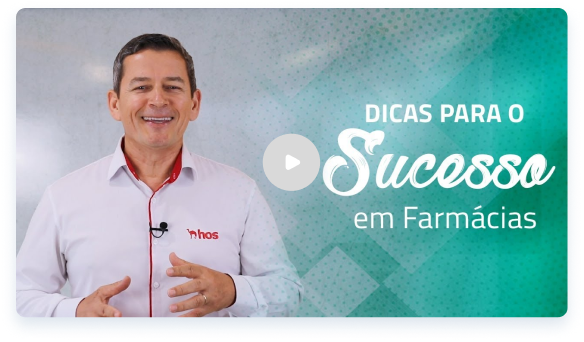
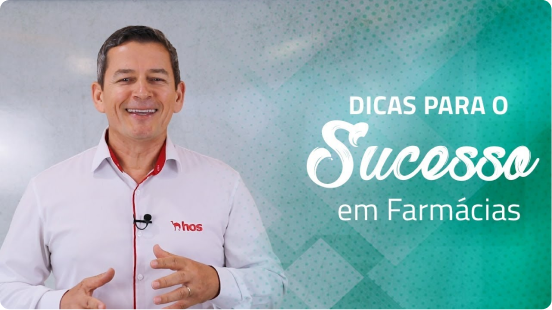
Alterações feitas

diff --git a/hos/src/components/videos.tsx b/hos/src/components/videos.tsx
@@ -2,9 +2,9 @@ import Image from 'next/image'
 import indicadores from '../../public/indicadores.png'
 import dicas from '../../public/dicas.png'
 import prosperar from '../../public/prosperar.png'
-import frente from '../../public/frente.png'
+import frente from '../../public/frente.jpeg'
 import Link from 'next/link'
-
+import play from '../../public/play.svg'
 interface VideosProps {
 
 }
@@ -17,30 +17,42 @@ export function Videos(props : VideosProps){
             <p className='text-center text-[1rem] text-grafite w-[15rem] py-[1.5rem] font-bold mx-auto tablet:w-[51rem] tablet:text-[2rem] tablet:pt-[8rem] tablet:pb-[5rem]'>Explore os recursos criados pelos consultores da HOS</p>
 
             <div className='tablet:grid tablet:grid-cols-2 tablet:gap-y-10 tablet:pb-[6rem]'>
-                <div className='mx-auto'>
+                <div className='mx-auto relative'>
                     <Link href='https://www.youtube.com/watch?v=_l5KEDfDiDc&ab_channel=HosSistemas' target='_blank'>
-                        <Image src={indicadores} alt='' className='mx-auto tablet:w-[31rem] hover:w-[32rem] transition-all ease-in-out duration-300' />
+                        <Image src={indicadores} alt='' className='  w-auto h-[12rem] mx-auto tablet:h-[18rem] transition-all ease-in-out duration-300' />
+                        <div className=' absolute bg-cinza top-[4rem] left-[9rem] w-[3.59rem] h-[3.59rem]  rounded-full tablet:top-[7rem] tablet:left-[14rem]  hover:bg-vermelho transition-all ease-in-out duration-500'>
+                            <Image src={play} alt='' className='flex justify-center items-center mx-auto mt-4'/>
+                        </div>         
                     </Link>
-                    <p className='text-center text-[0.87rem] font-semibold mx-auto tablet:text-[1.5rem] tablet:w-[24rem]'>Indicadores na Gestão de Drogarias</p>
+                    <p className='text-center text-[0.87rem] font-semibold mx-auto tablet:text-[1.5rem] tablet:w-[24rem] tablet:pt-4'>Indicadores na Gestão de Drogarias</p>
                 </div>
 
-                <div className='mx-auto py-[2rem] tablet:py-0'>
+                <div className='mx-auto py-[2rem] relative w-4/4 tablet:py-0'>
                     <Link href='https://www.youtube.com/watch?v=lm1aYxNGV3E&ab_channel=HosSistemas' target='_blank'>
-                        <Image src={dicas} alt='' className='mx-auto tablet:w-[31rem] hover:w-[32rem] transition-all ease-in-out duration-300' />
+                    <Image src={dicas} alt='' className='  w-auto h-[12rem] mx-auto tablet:h-[18rem] transition-all ease-in-out duration-300' />
+                        <div className=' absolute bg-cinza top-[6rem] left-[9rem] w-[3.59rem] h-[3.59rem]  rounded-full tablet:top-[7rem] tablet:left-[14rem]  hover:bg-vermelho transition-all ease-in-out duration-500'>
+                            <Image src={play} alt='' className='flex justify-center items-center mx-auto mt-4'/>
+                        </div>  
                     </Link>
-                    <p className='text-center text-[0.87rem] font-semibold w-[14rem] mx-auto tablet:text-[1.5rem] tablet:w-[24rem]'>Dicas de Gestão Farmacêutica para o Sucesso em Farmácias</p>
+                    <p className='text-center text-[0.87rem] font-semibold w-[14rem] mx-auto tablet:text-[1.5rem] tablet:w-[24rem] tablet:pt-4'>Dicas de Gestão Farmacêutica para o Sucesso em Farmácias</p>
                 </div>
 
-                <div className='mx-auto'>
+                <div className='mx-auto relative w-4/4'>
                     <Link href='https://www.youtube.com/watch?v=gyJnJdlnHQI&ab_channel=HosSistemas' target='_blank'>
-                        <Image src={prosperar} alt='' className='mx-auto tablet:w-[31rem] hover:w-[32rem] transition-all ease-in-out duration-300' />
+                    <Image src={prosperar} alt='' className=' rounded-lg w-auto h-[12rem] mx-auto tablet:h-[18rem] transition-all ease-in-out duration-300' />
+                        <div className=' absolute bg-cinza top-[4rem] left-[9rem] w-[3.59rem] h-[3.59rem]  rounded-full tablet:top-[7rem] tablet:left-[14rem]  hover:bg-vermelho transition-all ease-in-out duration-500'>
+                            <Image src={play} alt='' className='flex justify-center items-center mx-auto mt-4'/>
+                        </div>  
                     </Link>
-                    <p className='text-center text-[0.87rem] font-semibold w-[14rem] mx-auto tablet:text-[1.5rem] tablet:w-[24rem]'>Como prosperar no Varejo Farmacêutico</p>
+                    <p className='text-center text-[0.87rem] font-semibold w-[14rem] mx-auto tablet:text-[1.5rem] tablet:w-[24rem] tablet:pt-4'>Como prosperar no Varejo Farmacêutico</p>
                 </div>
 
-                <div className='mx-auto py-[2rem] tablet:py-0 tablet:mt-[-2.3rem]'>
+                <div className='mx-auto py-[2rem] relative w-4/4 tablet:py-0 tablet:mt-[0.5rem]'>
                 <Link href='https://www.youtube.com/watch?v=RGg3OHoguWo&t=2s' target='_blank'>
-                    <Image src={frente} alt='' className='mx-auto tablet:w-[35rem] hover:w-[36rem] transition-all ease-in-out duration-300' />
+                <Image src={frente} alt='' className=' rounded-lg w-auto h-[12rem] mx-auto tablet:h-[18rem] transition-all ease-in-out duration-300' />
+                        <div className=' absolute bg-cinza top-[4rem] left-[9rem] w-[3.59rem] h-[3.59rem]  rounded-full tablet:top-[7rem] tablet:left-[14rem]  hover:bg-vermelho transition-all ease-in-out duration-500'>
+                            <Image src={play} alt='' className='flex justify-center items-center mx-auto mt-4'/>
+                        </div> 
                 </Link>
                     <p className='text-center text-[0.87rem] font-semibold w-[14rem] mx-auto tablet:text-[1.5rem] tablet:w-[24rem]'>HOS Farma: Sistema de Gestão para Farmácias e Drogarias</p>
                 </div>

diff --git a/hos/src/components/quemsomostres.tsx b/hos/src/components/quemsomostres.tsx
@@ -11,12 +11,12 @@ export function Tres(props: TresProps){
     
     return(
         <div className="bg-fundo -mt-[5.5rem] pb-[5rem]">
-            <div className="pt-[3rem] tablet:mx-auto tablet:max-w-[1300px] tablet:pt-[8rem] tablet:justify-center tablet:items-center">
-                <div className="pt-[3rem] tablet:mx-auto tablet:flex tablet:py-[6.5rem] tablet:gap-x-2">
+            <div className="pt-[3rem] tablet:mx-auto tablet:max-w-[1200px] tablet:pt-[8rem] tablet:justify-center tablet:items-center">
+                <div className="pt-[3rem] tablet:mx-auto tablet:flex tablet:py-[6.5rem] tablet:gap-x-6">
 
                        
-                   <div className="bg-white w-[16.257rem] h-[17.8rem] rounded-4xl drop-shadow-lg mx-auto tablet:w-[25rem] tablet:h-[26rem]  group hover:bg-gradient-to-b to-magenta from-laranja transition-all ease-in duration-1000">
-                        <div className="absolute bg-white w-[4.8rem] h-[4.7rem] rounded-3xl flex justify-center mx-auto drop-shadow-xl -mt-6 left-[6rem] tablet:drop-shadow-tres tablet:w-[7.2rem] tablet:h-[7.1rem] tablet:left-[9rem] tablet:-mt-[5.5rem] tablet:rounded-4xl">
+                   <div className="bg-white w-[16.257rem] h-[17.8rem] rounded-4xl drop-shadow-lg mx-auto tablet:w-[24rem] tablet:h-[24rem]  group hover:bg-gradient-to-b to-magenta from-laranja transition-all ease-in duration-1000">
+                        <div className="absolute bg-white w-[4.8rem] h-[4.7rem] rounded-3xl flex justify-center mx-auto drop-shadow-xl -mt-6 left-[6rem] tablet:drop-shadow-tres tablet:w-[7.2rem] tablet:h-[7.1rem] tablet:left-[8rem] tablet:-mt-[5.5rem] tablet:rounded-4xl">
                             <Image src={missao} alt='' className="tablet:w-[5rem] tablet:h-auto"/>   
                         </div>
                         <h2 className="text-[1.25rem] pt-[5.5rem] text-grafite font-bold leading-tight text-center tablet:text-center tablet:text-[1.875rem]  tablet:max-w-[15rem] tablet:mx-auto group-hover:text-white">Missão</h2>  
@@ -24,16 +24,16 @@ export function Tres(props: TresProps){
 as necessidades dos clientes, colaboradores, parceiros e sócios.</p>
                     </div>
 
-                    <div className="bg-white w-[16.257rem] h-[17.8rem] rounded-4xl drop-shadow-lg mx-auto  mt-[3rem] tablet:w-[25rem] tablet:h-[26rem] tablet:mt-0  group hover:bg-gradient-to-b to-magenta from-laranja transition-all ease-in duration-1000">
-                        <div className="absolute bg-white w-[4.8rem] h-[4.7rem] rounded-3xl flex justify-center mx-auto drop-shadow-xl -mt-6 left-[6rem] tablet:w-[7.2rem] tablet:drop-shadow-tres tablet:h-[7.1rem] tablet:left-[9rem] tablet:-mt-[5.5rem] tablet:rounded-4xl">
+                    <div className="bg-white w-[16.257rem] h-[17.8rem] rounded-4xl drop-shadow-lg mx-auto  mt-[3rem] tablet:w-[25rem] tablet:h-[24rem] tablet:mt-0  group hover:bg-gradient-to-b to-magenta from-laranja transition-all ease-in duration-1000">
+                        <div className="absolute bg-white w-[4.8rem] h-[4.7rem] rounded-3xl flex justify-center mx-auto drop-shadow-xl -mt-6 left-[6rem] tablet:w-[7.2rem] tablet:drop-shadow-tres tablet:h-[7.1rem] tablet:left-[8.8rem] tablet:-mt-[5.5rem] tablet:rounded-4xl">
                             <Image src={visao} alt='' className="tablet:w-[5.5rem] tablet:h-auto"/>   
                         </div>
                         <h2 className="text-[1.25rem] pt-[5.5rem] w-[8rem] mx-auto text-grafite font-bold leading-tight text-center tablet:text-center tablet:text-[1.875rem]  tablet:w-[13rem] tablet:mx-auto group-hover:text-white">Visão</h2>  
                         <p className="text-[0.76rem] pt-[2.4rem] text-grafite mx-auto  w-[13.9rem] text-center tablet:text-center tablet:text-[20px]  tablet:w-[20rem] group-hover:text-white"> Tornar-se uma empresa referência em qualidade do produto e excelência, dentro do mercado nacional, em soluções para o ramo do varejo farmacêutico.</p>
                     </div> 
 
-                    <div className="bg-white w-[16.257rem] h-[17.8rem] rounded-4xl drop-shadow-lg mx-auto mt-[3rem] tablet:w-[25rem] tablet:h-[26rem] tablet:mt-0 group hover:bg-gradient-to-b to-magenta from-laranja transition-all ease-in duration-1000">
-                            <div className="absolute bg-white w-[4.8rem] h-[4.7rem] rounded-3xl flex justify-center mx-auto drop-shadow-xl -mt-6 left-[6rem] tablet:w-[7.2rem] tablet:h-[7.1rem] tablet:drop-shadow-tres tablet:left-[9rem] tablet:-mt-[5.5rem] tablet:rounded-4xl ">
+                    <div className="bg-white w-[16.257rem] h-[17.8rem] rounded-4xl drop-shadow-lg mx-auto mt-[3rem] tablet:w-[25rem] tablet:h-[24rem] tablet:mt-0 group hover:bg-gradient-to-b to-magenta from-laranja transition-all ease-in duration-1000">
+                            <div className="absolute bg-white w-[4.8rem] h-[4.7rem] rounded-3xl flex justify-center mx-auto drop-shadow-xl -mt-6 left-[6rem] tablet:w-[7.2rem] tablet:h-[7.1rem] tablet:drop-shadow-tres tablet:left-[8.7rem] tablet:-mt-[5.5rem] tablet:rounded-4xl ">
                                 <Image src={valores} alt="" className="tablet:w-[5rem] tablet:h-auto" />
                             </div>
                             <h2 className="text-[1.25rem] pt-[5.5rem] text-grafite font-bold leading-tight text-center tablet:text-center tablet:text-[1.875rem] tablet:max-w-[31rem] group-hover:text-white">

diff --git a/hos/src/components/carrosselsolucoes.tsx b/hos/src/components/carrosselsolucoes.tsx
@@ -58,25 +58,25 @@ export function Render(props: RenderProps) {
     return( 
     
     <div className="relative bg-fundo">
-        <div className='text-[1.25rem] w-[15rem] text-center pt-[5rem] font-extrabold text-grafite leading-tight  flex mx-auto pb-[2rem] tablet:text-center tablet:w-[42.4rem] tablet:text-[2rem]'>
+        <div className='text-[1.25rem] w-[15rem] text-center pt-[5rem] font-extrabold text-grafite leading-tight  flex mx-auto pb-[2rem] tablet:text-center tablet:w-[42.4rem] tablet:text-[2rem] tablet:pb-[4rem]'>
                 <h2 className='mx-auto'>Soluções para sua drogaria render mais </h2>
             </div>
       <div className="grid grid-cols-1 h-[55rem] tablet:flex  tablet:w-[1090px] tablet:mx-auto tablet:justify-center tablet:h-auto tablet:pb-[3rem]">
         <div className=" tablet:flex tablet:justify-center ">
-            <div  className=' w-[16rem] h-[15rem] mb-3 mx-auto justify-center bg-white  drop-shadow-lg rounded-xl tablet:w-[23.3rem] tablet:h-[25rem] tablet:mx-6'>
-              <Image src={simultanes} alt='' className='w-[3.8rem] h-auto flex mx-auto pt-[2rem]  tablet:w-[5.8rem] tablet:pt-[4rem] tablet:pb-[2rem]'/>
-              <h2 className='text-center text-[1rem] mt-[1.9rem] text-grafite font-bold tablet:text-[1.25rem] tablet:px-[1.5rem]  tablet:pb-[0.7rem]'>Vendas Simultâneas</h2>
+            <div  className=' w-[16rem] h-[15rem] mb-3 mx-auto justify-center bg-white  drop-shadow-lg rounded-xl tablet:w-[23.3rem] tablet:h-[23rem] tablet:mx-6'>
+              <Image src={simultanes} alt='' className='w-[3.8rem] h-auto flex mx-auto pt-[2rem]  tablet:w-[5.8rem] tablet:pt-[3.5rem] tablet:pb-[2rem]'/>
+              <h2 className='text-center text-[1rem] mt-[1.9rem] text-grafite font-bold tablet:text-[1.3] tablet:px-[1.5rem]  tablet:pb-[0.7rem]'>Vendas Simultâneas</h2>
               <p className='text-center text-[0.8rem] mt-[0.9rem] text-grafite tablet:text-[1rem] tablet:w-[18rem] tablet:pb-[4.9rem] tablet:flex tablet:mx-auto'>Flexibilidade de usar múltiplas telas de vendas para consultar preços e atender clientes de forma simultânea.</p>
             </div>
 
-            <div  className=' w-[16rem] h-[15rem] mb-3 mx-auto justify-center bg-white  drop-shadow-lg rounded-xl tablet:w-[23.3rem] tablet:h-[25rem]'>
-              <Image src={pbm} alt='' className='w-[2rem] h-auto flex mx-auto pt-[2rem]  tablet:w-[3.8rem] tablet:pt-[4rem] tablet:pb-[1.2rem]'/>
+            <div  className=' w-[16rem] h-[15rem] mb-3 mx-auto justify-center bg-white  drop-shadow-lg rounded-xl tablet:w-[23.3rem] tablet:h-[23rem]'>
+              <Image src={pbm} alt='' className='w-[2rem] h-auto flex mx-auto pt-[2rem]  tablet:w-[3.8rem] tablet:pt-[3rem] tablet:pb-[1.2rem]'/>
               <h2 className='text-center text-[1rem] mt-[1.9rem] text-grafite font-bold tablet:text-[1.25rem] tablet:px-[1.5rem] tablet:pb-[0.8rem]'>PBMS</h2>
               <p className='text-center text-[0.8rem] mt-[0.9rem] text-grafite tablet:text-[1rem] tablet:w-[18rem] tablet:flex tablet:mx-auto'>Proporcionamos a integração com os principais Planos de Benefícios de Medicamentos (PBM) do mercado.</p>
             </div>
 
-            <div  className=' w-[16rem] h-[15rem] mx-auto justify-center bg-white  drop-shadow-lg rounded-xl tablet:w-[23.3rem] tablet:h-[25rem] tablet:mx-6'>
-              <Image src={tef} alt='' className='w-[2.2rem] h-auto flex mx-auto pt-[2rem]  tablet:w-[4.5rem] tablet:pt-[4rem] tablet:pb-[1.2rem]'/>
+            <div  className=' w-[16rem] h-[15rem] mx-auto justify-center bg-white  drop-shadow-lg rounded-xl tablet:w-[23.3rem] tablet:h-[23rem] tablet:mx-6'>
+              <Image src={tef} alt='' className='w-[2.2rem] h-auto flex mx-auto pt-[2rem]  tablet:w-[4.5rem] tablet:pt-[3rem] tablet:pb-[1.2rem]'/>
               <h2 className='text-center text-[1rem] mt-[1.9rem] text-grafite font-bold tablet:text-[1.25rem] tablet:px-[1.5rem] tablet:pb-[0.8rem]'>TEF</h2>
               <p className='text-center text-[0.8rem] mt-[0.9rem] text-grafite tablet:text-[1rem] tablet:w-[18rem] tablet:flex tablet:mx-auto'>Compras realizadas na maquininha são automaticamente registradas no nosso sistema.</p>
             </div>

diff --git a/hos/src/components/maximiza.tsx b/hos/src/components/maximiza.tsx
@@ -18,7 +18,7 @@ export function Maximize(props: MaximizeProps){
 
                        
                    <div className="bg-white w-[17.25rem] h-[11.875rem] rounded-xl drop-shadow-lg mx-auto tablet:w-[23.3rem] tablet:h-[17.9rem] ">
-                        <div className="absolute bg-white w-[4.8rem] h-[4.7rem] rounded-3xl flex justify-center mx-auto drop-shadow-botao -mt-6 left-[6rem] tablet:rounded-4xl tablet:w-[7.2rem] tablet:h-[7.1rem] tablet:left-[7rem] tablet:-mt-[5.5rem]">
+                        <div className="absolute bg-white w-[4.8rem] h-[4.7rem] rounded-3xl flex justify-center mx-auto drop-shadow-botao -mt-6 left-[6rem] tablet:rounded-4xl tablet:w-[7.2rem] tablet:h-[7.1rem] tablet:left-[6.5rem] tablet:-mt-[5.5rem]">
                             <Image src={magistral} alt='' className="tablet:w-[4.5rem] tablet:h-auto"/>   
                         </div>
                         <h2 className="text-[1rem] pt-[4.4rem] text-grafite font-extrabold leading-tight text-center tablet:text-center tablet:text-[1.5rem] tablet:pb-[1.6rem] tablet:max-w-[15rem] tablet:mx-auto"> Controle da Produção Magistral</h2>  
@@ -26,7 +26,7 @@ export function Maximize(props: MaximizeProps){
                     </div>
 
                     <div className="bg-white w-[17.25rem] h-[11.875rem] rounded-xl drop-shadow-lg mx-auto  mt-[3rem] tablet:w-[23.3rem] tablet:h-[17.9rem] tablet:mt-0">
-                        <div className="absolute bg-white w-[4.8rem] h-[4.7rem] rounded-3xl flex justify-center mx-auto drop-shadow-botao -mt-6 left-[6rem] tablet:rounded-4xl tablet:w-[7.2rem] tablet:h-[7.1rem] tablet:left-[7rem] tablet:-mt-[5.5rem]">
+                        <div className="absolute bg-white w-[4.8rem] h-[4.7rem] rounded-3xl flex justify-center mx-auto drop-shadow-botao -mt-6 left-[6rem] tablet:rounded-4xl tablet:w-[7.2rem] tablet:h-[7.1rem] tablet:left-[6.5rem] tablet:-mt-[5.5rem]">
                             <Image src={filiais} alt='' className="tablet:w-[4.5rem] tablet:h-auto"/>   
                         </div>
                         <h2 className="text-[1rem] pt-[4.4rem] w-[8rem] mx-auto text-grafite font-extrabold leading-tight text-center tablet:text-center tablet:text-[1.5rem]  tablet:pb-[1.6rem]  tablet:w-[13rem] tablet:mx-auto">Integração Filiais e Laboratórios </h2>  
@@ -34,7 +34,7 @@ export function Maximize(props: MaximizeProps){
                     </div> 
 
                     <div className="bg-white w-[17.25rem] h-[11.875rem] rounded-xl drop-shadow-lg mx-auto mt-[3rem] tablet:w-[23.3rem] tablet:h-[17.9rem] tablet:mt-0">
-                        <div className="absolute bg-white w-[4.8rem] h-[4.7rem] rounded-3xl flex justify-center mx-auto drop-shadow-botao -mt-6 left-[6rem] tablet:rounded-4xl tablet:w-[7.2rem] tablet:h-[7.1rem] tablet:left-[7rem] tablet:-mt-[5.5rem]">
+                        <div className="absolute bg-white w-[4.8rem] h-[4.7rem] rounded-3xl flex justify-center mx-auto drop-shadow-botao -mt-6 left-[6rem] tablet:rounded-4xl tablet:w-[7.2rem] tablet:h-[7.1rem] tablet:left-[6.5rem] tablet:-mt-[5.5rem]">
                             <Image src={pesagem} alt='' className="tablet:w-[4.5rem] tablet:h-auto"/>   
                         </div>
                         <h2 className="text-[1rem] pt-[4.4rem] text-grafite font-extrabold leading-tight text-center tablet:text-center tablet:pt-[5.5rem] tablet:text-[1.5rem] tablet:pb-[2.4rem]  tablet:max-w-[31rem]">Pesagem Monitorada </h2>  

diff --git a/hos/src/components/financeiroWeb.tsx b/hos/src/components/financeiroWeb.tsx
@@ -14,7 +14,7 @@ export function FinanceiroWeb(props: FinanceiroWebProps){
                 <h2 className="text-[1.5rem] w-[19rem] mx-auto text-grafite font-extrabold leading-tight text-center tablet:col-span-3 tablet:text-[2rem] tablet:w-[46.8rem] tablet:pb-[5rem]">Amplie suas possibilidades com o <span className="text-vermelho">Financeiro Web</span></h2>
                 
                 <div className="">
-                    <div className="bg-white w-[5.7rem] h-[5.6rem] mt-[1.9rem]  rounded-3xl drop-shadow-2xl flex justify-center mx-auto tablet:w-[8.1rem] tablet:h-[8rem]">
+                    <div className="bg-white w-[5.7rem] h-[5.6rem] mt-[1.9rem]  rounded-3xl drop-shadow-2xl flex justify-center mx-auto tablet:w-[8.1rem] tablet:h-[8rem] tablet:rounded-4xl">
                         <Image src={gestao} alt="" className=" w-[3.9rem] h-auto mt-[0.2rem] tablet:w-[5rem] tablet:h-auto"/>
                     </div>
                     <h4 className="w-[13rem] text-[1rem] mt-[1.5rem] font-extrabold text-center text-grafite mx-auto tablet:w-[16.1rem] tablet:text-[1.25rem]">Gestão da saúde financeira</h4>
@@ -22,7 +22,7 @@ export function FinanceiroWeb(props: FinanceiroWebProps){
                 </div>
 
                 <div className="">
-                    <div className="bg-white w-[5.7rem] h-[5.6rem] mt-[1.5rem] rounded-3xl drop-shadow-2xl flex justify-center mx-auto tablet:w-[8.1rem] tablet:h-[8rem]">
+                    <div className="bg-white w-[5.7rem] h-[5.6rem] mt-[1.8rem] rounded-3xl drop-shadow-2xl flex justify-center mx-auto tablet:w-[8.1rem] tablet:h-[8rem] tablet:rounded-4xl">
                         <Image src={boletos} alt="" className=" w-[2.9rem] h-auto tablet:w-[4.4rem] tablet:h-auto"/>
                     </div>
                     <h4 className="w-[13rem] text-[1rem] mt-[1.5rem] font-extrabold text-center text-grafite mx-auto tablet:w-[16.1rem] tablet:text-[1.25rem]">Emissão de Boletos</h4>
@@ -30,7 +30,7 @@ export function FinanceiroWeb(props: FinanceiroWebProps){
                 </div>
 
                 <div className="">
-                    <div className="bg-white w-[5.7rem] h-[5.6rem] mt-[1.5rem] rounded-3xl drop-shadow-2xl flex justify-center mx-auto tablet:w-[8.1rem] tablet:h-[8rem]">
+                    <div className="bg-white w-[5.7rem] h-[5.6rem] mt-[1.8rem] rounded-3xl drop-shadow-2xl flex justify-center mx-auto tablet:w-[8.1rem] tablet:h-[8rem] tablet:rounded-4xl">
                         <Image src={sistema} alt="" className=" w-[3.9rem] h-auto tablet:w-[5rem] tablet:h-auto"/>
                     </div>
                     <h4 className="w-[13rem] text-[1rem] mt-[1.5rem] font-extrabold text-center text-grafite mx-auto tablet:w-[16.1rem] tablet:text-[1.25rem]">Sistema de cobrança</h4>

diff --git a/hos/src/components/conformidade.tsx b/hos/src/components/conformidade.tsx
@@ -13,8 +13,8 @@ export function Conformidade(props: ConformidadeProps){
         <div className="-mt-[5rem] py-[4rem] tablet:grid tablet:grid-cols-2 tablet:pt-[4rem] tablet:w-[1200px] tablet:mx-auto">
            <div className="mx-auto tablet:mt-[5rem] ">
                 
-                <h2 className="text-[1.25rem] pb-[1.5rem] text-grafite font-extrabold leading-tight text-center w-[18rem] mx-auto tablet:text-left tablet:text-[2rem] tablet:w-[25.12rem] ">Fique em conformidade com as obrigações fiscais</h2>                 
-                <p className="text-[0.87rem] text-grafite mx-auto my-[1.38rem] w-[18rem] text-center tablet:text-left tablet:text-[1.25rem] tablet:w-[21.87rem] tablet:mx-0">
+                <h2 className="text-[1.25rem] pb-[1.5rem] text-grafite font-extrabold leading-tight text-center w-[18rem] mx-auto tablet:text-left tablet:text-[2rem] tablet:w-[31rem] tablet:pb-[0.5rem]">Fique em conformidade com as obrigações fiscais</h2>                 
+                <p className="text-[0.87rem] text-grafite mx-auto my-[1.38rem] w-[18rem] text-center tablet:text-left tablet:text-[1.25rem] tablet:w-[31rem] tablet:mx-0">
                 Com o HOSFiscal, sua farmácia terá um processo contábil mais ágil e eficiente, além de ficar em conformidade com as obrigações fiscais, evitando multas e sanções.
                 </p>
             </div>
@@ -23,7 +23,7 @@ export function Conformidade(props: ConformidadeProps){
                     <Image src={conformidade} alt='' className="w-[20rem] h-auto mx-auto tablet:w-[28rem] tablet:h-auto"/>
                 </div>
 
-            <button className="flex justify-center items-center mx-auto pt-[1.5rem] w-[12rem] h-[0.9rem]  py-[1.3rem] px-[0.8rem] rounded-lg bg-gradient-to-b from-laranja to-magenta tablet:-mt-[4rem] tablet:col-start-1 tablet:ml-[6rem] tablet:w-[15rem] tablet:h-[3.5rem] tablet:rounded-lg tablet:hover:bg-gradient-to-b tablet:hover:from-darker tablet:hover:to-darker tablet:hover:duration-1000">
+            <button className="flex justify-center items-center mx-auto pt-[1.5rem] w-[12rem] h-[0.9rem]  py-[1.3rem] px-[0.8rem] rounded-lg bg-gradient-to-b from-laranja to-magenta tablet:-mt-[6rem] tablet:col-start-1 tablet:ml-[3rem] tablet:w-[10rem] tablet:h-[3.5rem] tablet:rounded-md tablet:hover:bg-gradient-to-b tablet:hover:from-darker tablet:hover:to-darker tablet:hover:duration-1000">
                     <p className="text-fundo text-{0.87rem] text-center pr-[0.5rem]">Saiba mais</p>
                     <Image src={flecha} alt="" />
             </button>

diff --git a/hos/src/components/Acordeao.tsx b/hos/src/components/Acordeao.tsx
@@ -33,7 +33,7 @@ const AcordeaoSection = ({section, isActiveSection, sectionIndex, setActiveIndex
             
             <div onClick={toggleSection} className='flex pl-1 justify-between items-center pb-2 mx-auto  '>
                 <div className='flex ml-2 justify-start items-center  font-semibold text-grafite text-[0.8rem] leading-tight tablet:text-[1.125rem] '>{section.title}</div>
-                <div className=' flex justify-end items-end'>{isActiveSection ? <Image src={setaUp} alt="-" className=' bg-gradient-to-b from-laranja to-magenta rounded-full mx-2  px-[0.5rem] py-[0.6rem] tablet:py-[0.8rem] tablet:px-[0.7rem] tablet:h-auto tablet:w-[2rem] transition-all ease-in-out duration-500 ' /> : <Image src={setaUp} alt="+" className=' bg-gradient-to-b from-laranja to-magenta rounded-full mx-2  px-[0.5rem] py-[0.6rem] -rotate-180 tablet:py-[0.8rem] tablet:px-[0.7rem] tablet:h-auto tablet:w-[2rem] transition-all ease-in-out duration-500'/>}</div>
+                <div className=' flex justify-end items-end'>{isActiveSection ? <Image src={setaUp} alt="-" className=' bg-gradient-to-b from-laranja to-magenta rounded-full mx-2  px-[0.5rem] py-[0.6rem] tablet:py-[0.9rem] tablet:px-[0.8rem] tablet:h-auto tablet:w-[2.3rem] transition-all ease-in-out duration-500 ' /> : <Image src={setaUp} alt="+" className=' bg-gradient-to-b from-laranja to-magenta rounded-full mx-2  px-[0.5rem] py-[0.6rem] -rotate-180 tablet:py-[0.9rem] tablet:px-[0.8rem] tablet:h-auto tablet:w-[2.3rem] transition-all ease-in-out duration-500'/>}</div>
             </div>
             <div className={isActiveSection ? 'expanded' : 'collapsed'}>
                     <div className='bg-cinza bg-opacity-20 h-[0.1rem] w-[16rem] flex mx-auto my-[0.3rem] tablet:w-[26rem] tablet:my-[0.6rem]'></div>

diff --git a/hos/src/components/solucoes.tsx b/hos/src/components/solucoes.tsx
@@ -11,12 +11,12 @@ export function Solucoes(props: SolucoesProps){
         <div className="bg-fundo ">
             <div className="pt-[0.3rem] tablet:flex tablet:max-w-[1200px~] tablet:pt-[4rem] tablet:justify-center tablet:items-center">
                <div className="mx-auto">
-                    <h2 className="text-[1.5rem] text-grafite font-extrabold leading-tight text-center tablet:text-left tablet:text-[2rem] tablet:ml-[8rem] tablet:max-w-[31rem]">Soluções para a gestão financeira da sua farmácia</h2>  
-                    <p className="text-[0.87rem] text-grafite mx-auto my-[1.38rem] w-[17.2rem] text-center tablet:text-left tablet:text-[1.25rem] tablet:ml-[8rem] tablet:w-[30rem]">Simplifique as operações financeiras da sua farmácia ou drogaria e obtenha uma visão clara dos principais indicadores através 
+                    <h2 className="text-[1.5rem] text-grafite font-extrabold leading-tight text-center tablet:text-left tablet:text-[2rem] tablet:ml-[5rem] tablet:max-w-[34rem]">Soluções para a gestão financeira da sua farmácia ou drogaria</h2>  
+                    <p className="text-[0.87rem] text-grafite mx-auto my-[1.38rem] w-[17.2rem] text-center tablet:text-left tablet:text-[1.25rem] tablet:ml-[5rem] tablet:w-[30rem]">Simplifique as operações financeiras da sua farmácia ou drogaria e obtenha uma visão clara dos principais indicadores através 
                     do celular, tablet ou notebook.</p>
                 </div>
             
-            <Image src={laptop} alt='' className="mx-auto max-w-[20rem] h-auto tablet:max-w-[39rem] tablet:mr-[8rem] "/>
+            <Image src={laptop} alt='' className="mx-auto max-w-[20rem] h-auto tablet:max-w-[35rem] tablet:mr-[8rem] "/>
 
             </div>
         </div>

diff --git a/hos/src/components/herosection.tsx b/hos/src/components/herosection.tsx
@@ -18,7 +18,7 @@ export function HeroSection({title, text, img, bgClassName, titleClassName, text
     return(
         <>
 
-        <div className={`drop-shadow-md mb-[5rem] overflow-x-hidden tablet:pb-[1rem] ${bgClassName}`}>
+        <div className={` mb-[5rem] overflow-x-hidden tablet:pb-[1rem] ${bgClassName}`}>
           
             <div className=" mx-auto max-w-[460px] tablet:flex tablet:justify-center tablet:items-center  tablet:max-w-[1200px] tablet:h-[570px]">
 
@@ -26,7 +26,7 @@ export function HeroSection({title, text, img, bgClassName, titleClassName, text
                     <h1 className={`text-[1.5rem] font-bold leading-none tablet:text-[2.25rem] ${titleClassName}`}>{title}</h1>
                     <p className={`text-[0.8rem] font-normal mt-[1rem] mb-[1.5rem] tablet:text-[1.5rem] tablet:pb-[1.5rem] ${textClassName}`}>{text}</p>
                     <Link href="/sobre/contato">
-                        <button className={`w-[16rem] text-[1rem] font-regular mb-[1.3rem] px-[1.3rem] py-[0.4rem] rounded-md tablet:text-[1.2rem] tablet:w-[20rem] tablet:h-[3rem] tablet:transition-all tablet:ease-in-out tablet:duration-500 ${buttonClassName}`}>{buttonName}</button>
+                        <button className={`w-[16rem] text-[1rem] font-regular mb-[1.3rem] px-[1.3rem] py-[0.4rem] rounded-md tablet:text-[1.2rem] tablet:w-[20rem] tablet:h-[3rem] tablet:transition-all tablet:ease-in-out tablet:duration-500 hover:font-bold ${buttonClassName}`}>{buttonName}</button>
                     </Link>
                 </div>
 

diff --git a/hos/src/components/beneficios.tsx b/hos/src/components/beneficios.tsx
@@ -9,7 +9,7 @@ export function Beneficios(props: BeneficiosProps){
     
     return(
         <>
-        <div className="-mt-[5rem] px-[2.5rem] py-[2rem] bg-fundo tablet:pt-[6rem] tablet:px-[8rem]">
+        <div className="-mt-[5rem] px-[2.5rem] py-[4rem] bg-fundo tablet:pt-[6rem] tablet:px-[8rem]">
             <div className="max-w-[460px] mx-auto tablet:max-w-[1200px] tablet:flex tablet:justify-center tablet:items-center tablet:mx-auto">
 
                 <div className="pb-[1.7rem] tablet:mr-[4rem]">
@@ -18,7 +18,7 @@ export function Beneficios(props: BeneficiosProps){
 
                 <div className="max-w-[17rem] mx-auto tablet:max-w-[27rem]">
                     <h2 className="text-[1.5rem] font-bold text-grafite leading-tight mb-[1.5rem] tablet:text-[2rem]">Conheça os benefícios do <span className="text-vermelho">HOSFarma</span></h2>
-                    <ul className="list-disc text-[0.8rem]  text-grafite  w-[19rem] font-medium ml-[1rem] leading-6 tablet:text-[1.25rem] tablet:leading-normal">
+                    <ul className="list-disc text-[0.8rem]  text-grafite  w-[19rem] font-medium ml-[1rem] leading-6 tablet:w-[26rem] tablet:text-[1.25rem] tablet:leading-normal">
                         <li>PDV, fiscal, estoque e compras</li>
                         <li>Integração com SNGPC, PBM e CMV</li>
                         <li>Administração para Lojas, Redes e Franquias</li>

diff --git a/hos/src/components/cta.tsx b/hos/src/components/cta.tsx
@@ -19,7 +19,7 @@ export function Cta(props: CtaProps){
                         <h3 className="text-[0.68rem] flex mx-auto justify-center mt-[2rem] text-grafite tablet:text-[1.25rem] tablet:mt-[3rem]">Descubra como podemos impulsionar seus resultados</h3>
                         <p className="text-[1.2rem] font-extrabold text-center w-[16.8rem] mt-[0.4rem] mb-[1.3rem] flex mx-auto justify-center leading-none text-grafite tablet:text-[2rem] tablet:w-[39.1rem] tablet:mt-[1rem] tablet:mb-[3rem]">Solicite uma demonstração agora mesmo</p>
                         <Link href="/sobre/contato">
-                            <button className="bg-vermelho w-[14rem] h-[2rem] flex mx-auto rounded-sm items-center tablet:w-[22rem] tablet:h-[3.5rem] tablet:rounded-lg">
+                            <button className="bg-vermelho w-[14rem] h-[2rem] flex mx-auto rounded-sm items-center tablet:w-[22rem] tablet:h-[3.5rem] tablet:rounded-lg hover:bg-sub hover:transition-all hover:ease-in-out hover:duration-500">
                                 <p className="text-[0.9rem] text-white flex mx-auto tablet:text-[1.25rem]">Converse com um especialista</p>
                             </button>
                         </Link>

diff --git a/hos/src/app/suporte/page.tsx b/hos/src/app/suporte/page.tsx
@@ -14,10 +14,10 @@ export default function Suporte() {
       <HeroSection 
                           bgClassName={"bg-white"}
                           title={"Precisa de suporte?"}
-                          titleClassName={"text-grafite"}
+                          titleClassName={"text-grafite font-bold"}
                           text={"Abra um chamado através da nossa Área do Cliente. As respostas ao seu chamado são no período das 8h às 18h (segunda a sexta-feira)."}
-                          textClassName={"text-grafite"}
-                          buttonClassName={"bg-white border-2 border-vermelho text-vermelho hover:bg-darker hover:border-white hover:text-white hover:transition hover:duration-500"}
+                          textClassName={"text-grafite leading-tight w-[28.8rem]"}
+                          buttonClassName={"bg-white border-2 border-vermelho text-vermelho hover:font-bold hover:bg-darker hover:border-white hover:text-white hover:transition hover:duration-500"}
                           img={suporte} buttonName={'Área do Cliente'} imageClassName={''}      />
       <Atendimento /> 
       <Footer />
